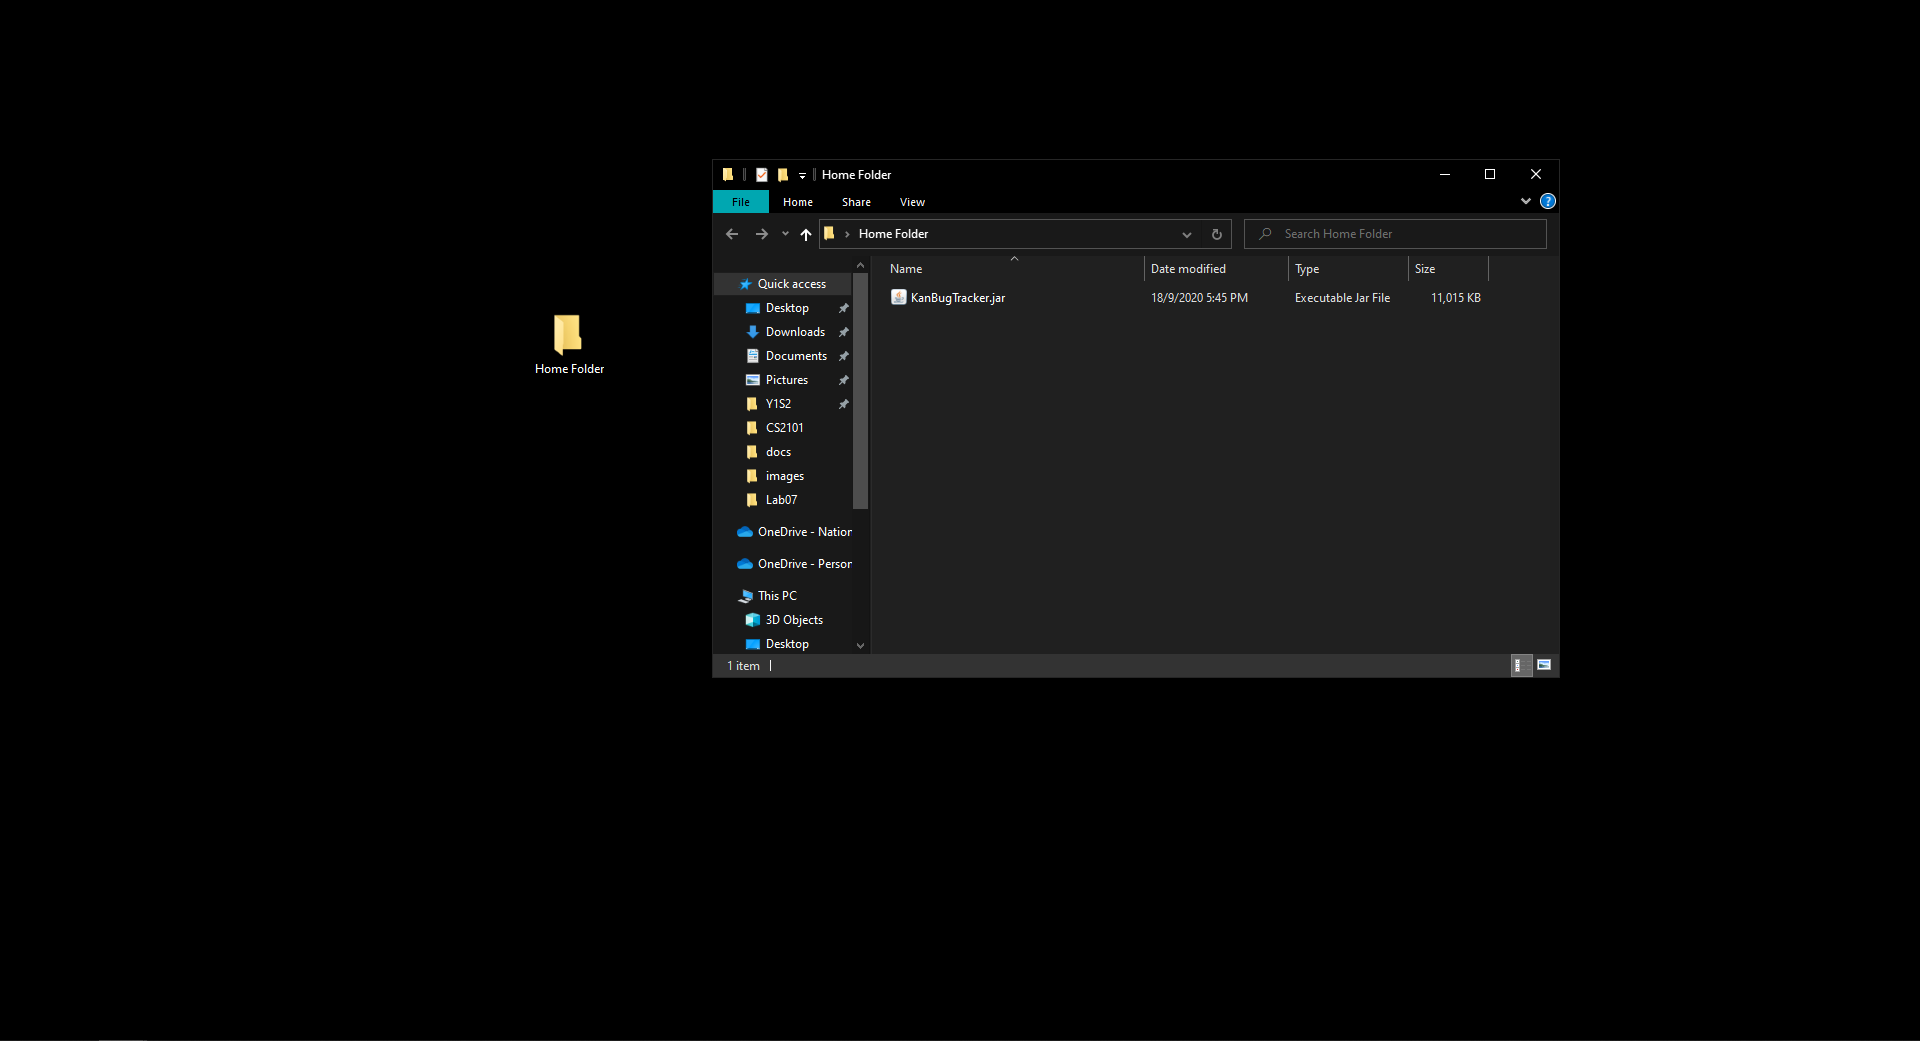
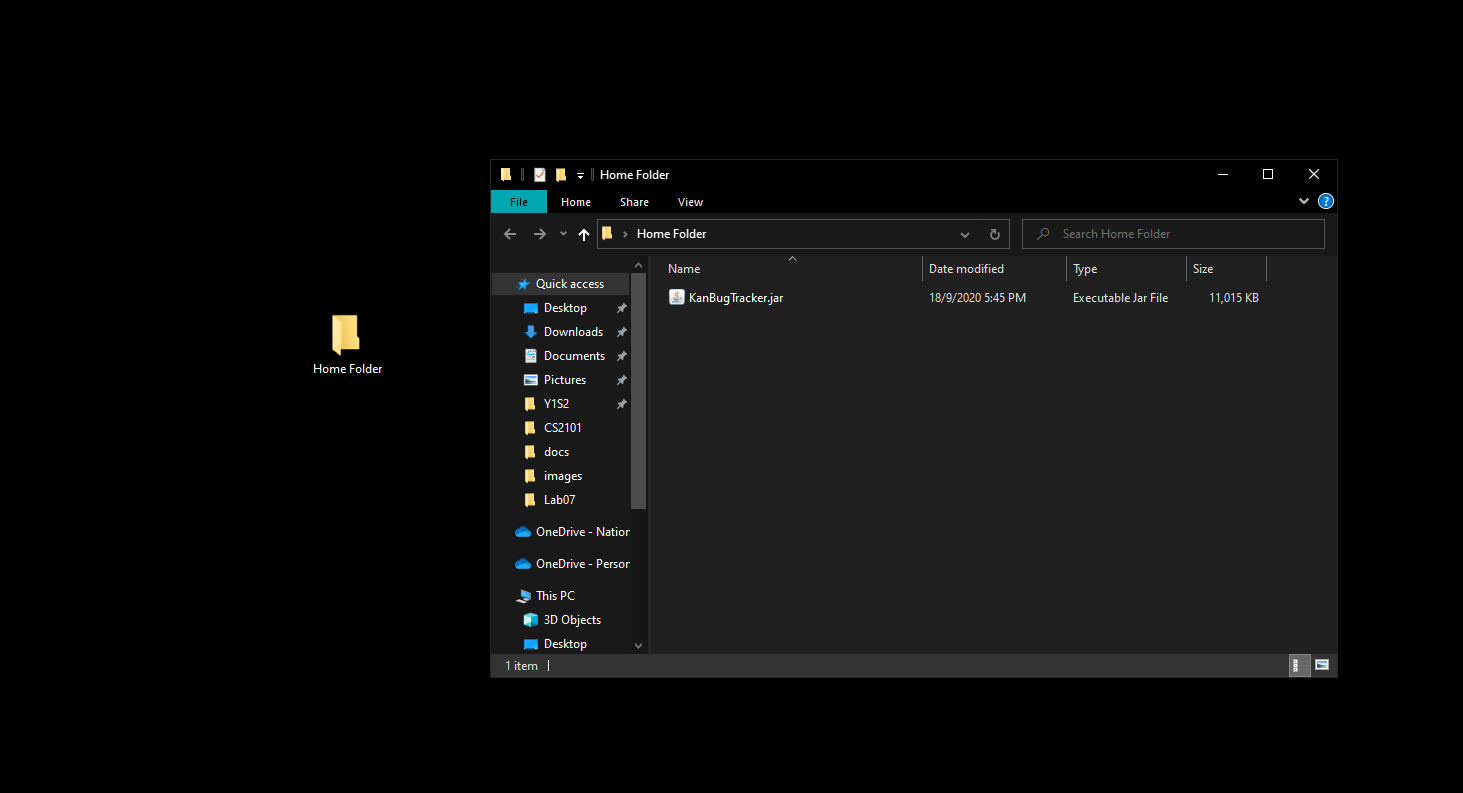
Update User Guide

diff --git a/docs/UserGuide.md b/docs/UserGuide.md
@@ -51,6 +51,10 @@ The first step in every journey is the preparation, after that when we have you 
 
 2. [Glossary](#2-glossary)
 
+   2.1 [What is a bug?](#21-what-is-a-bug)
+
+   2.2 [What are commands?](#22-what-are-commands)
+
 3. [Features](#3-features)
 
    3.1 [Switching Views : **`switch`**](#31-switching-views--switch)
@@ -88,15 +92,29 @@ The first step in every journey is the preparation, after that when we have you 
 2. Download the latest `KanBugTracker.jar` from our [GitHub](https://github.com/AY2021S1-CS2103T-W17-1/tp/releases)
     ![Download](images/KanBugDownload.png)
 
+
+
+
+
+
+
   
 
-3. Copy the `KanBugTracker.jar`file to a folder you want to use as your _home folder_.
+3. Copy the `KanBugTracker.jar` file to a folder you want to use as your _root folder_.
     ![HomeFolder](images/HomeFolder.png)
-    **Add Note here to describe what is going on**
+    
+<div markdown="span" class="alert alert-info">:information_source: Note: In this instance, <b>Home Folder</b> acts as our <i>root folder</i>. Users are free to name their <i>root folder</i> however they wish. 
+    </div>
 
-4. Double-click on the `KanBugTracker.jar`file to launch the application. 
 
-    <Insert an image here to show what it will look like upon starting up>
+
+
+
+4. Double-click on the `KanBugTracker.jar`file to launch the application. You should see something similar.
+
+   ![HomeFolder](images/Ui2.png)
+
+
 
 The next section will cover the various terms that you need to be familiar with to get started!
 
@@ -104,16 +122,68 @@ The next section will cover the various terms that you need to be familiar with 
 
 We're sure that you're excited to start using KanBug Tracker! Before that however, there are some terms that you need to be familiar with to make the best out of your KanBug Tracker experience.
 
-What are some things I think we need to explain?
+We have divided this section into two. The first section introduces what a **bug is and explains its various parts**. The second section focuses on how the **user interacts with the application** and introduces some key ideas that users need to know.
 
-- Columns
-- What is a bug
-  - Bug name
-  - Bug Description
-  - Tags
-  - Priority
-  - Notes
-- Commands
+### 2.1 What is a bug?
+
+Bugs take centre stage in this application, after all, our purpose is to help you manage them! 
+
+Let's look at the various parts of a bug to understand how they are represented in the application. 
+
+![BugImage](images/Ui5.png)
+
+	
+
+#### 1 - Bug Name
+
+You get to choose what you want to name each bug you enter into the KanBug Tracker.
+
+#### 2 - Priority
+
+When adding bugs to the KanBug Tracker, you can include a priority level for the bug. Priority levels help give you an indication of how urgently a particular bug has to be fixed. You choose from three pre-defined priority levels - LOW, MEDIUM and HIGH. 
+
+#### 3 - State
+
+Bugs in the KanBug Tracker can have one of four pre-defined states. States help you track which part of the bug's lifecycle a particular bug is in. 
+
+The four available states are:
+
+- **Backlog** - Bugs you have discovered but do not have the time to work on yet.
+- **Todo** - Bugs you intend to work on now.
+- **Ongoing** - Bugs you are currently working on.
+- **Done** - Bugs that have been resolved.
+
+<Add note about how the meanings of each state are iffy and users can use them however they feel is best>
+
+#### 4 - Description
+
+A short description detailing some key parts of the bug. Useful in helping you remember what the bug is about at a glance.
+
+#### 5 - Tag
+
+Multiple user-defined tags can be attached to each bug. Tags aid in helping you draw connections between multiple bugs. For instance, two bugs with the same tag "Ui" indicates that both bugs are related to the user-interface.
+
+#### 6 - Notes
+
+Notes are longer versions of descriptions. They are meant to provide more depth and can be used to log key pieces of information about the bug.
+
+### 2.2 What are commands?
+
+Commands are how you interact with the KanBug Tracker. The various commands will be covered in detail in the next [section](#3-features). However, there are some key parts of commands that you should take note of!
+
+#### Columns
+
+Some commands require users to include the column that a bug is in. Don't fret, columns simply refer to the state of a particular bug. In Kanban view, we can tell which column a bug is in easily. 
+
+#### Index
+
+The index of a bug is the position of that bug in the list.
+
+#### Prefixes
+
+Some commands require the use of prefixes to indicate user input. Every command will have its own specific format so do pay close attention to the command's requirements!
+
+
 
 
 ## 3. Features
